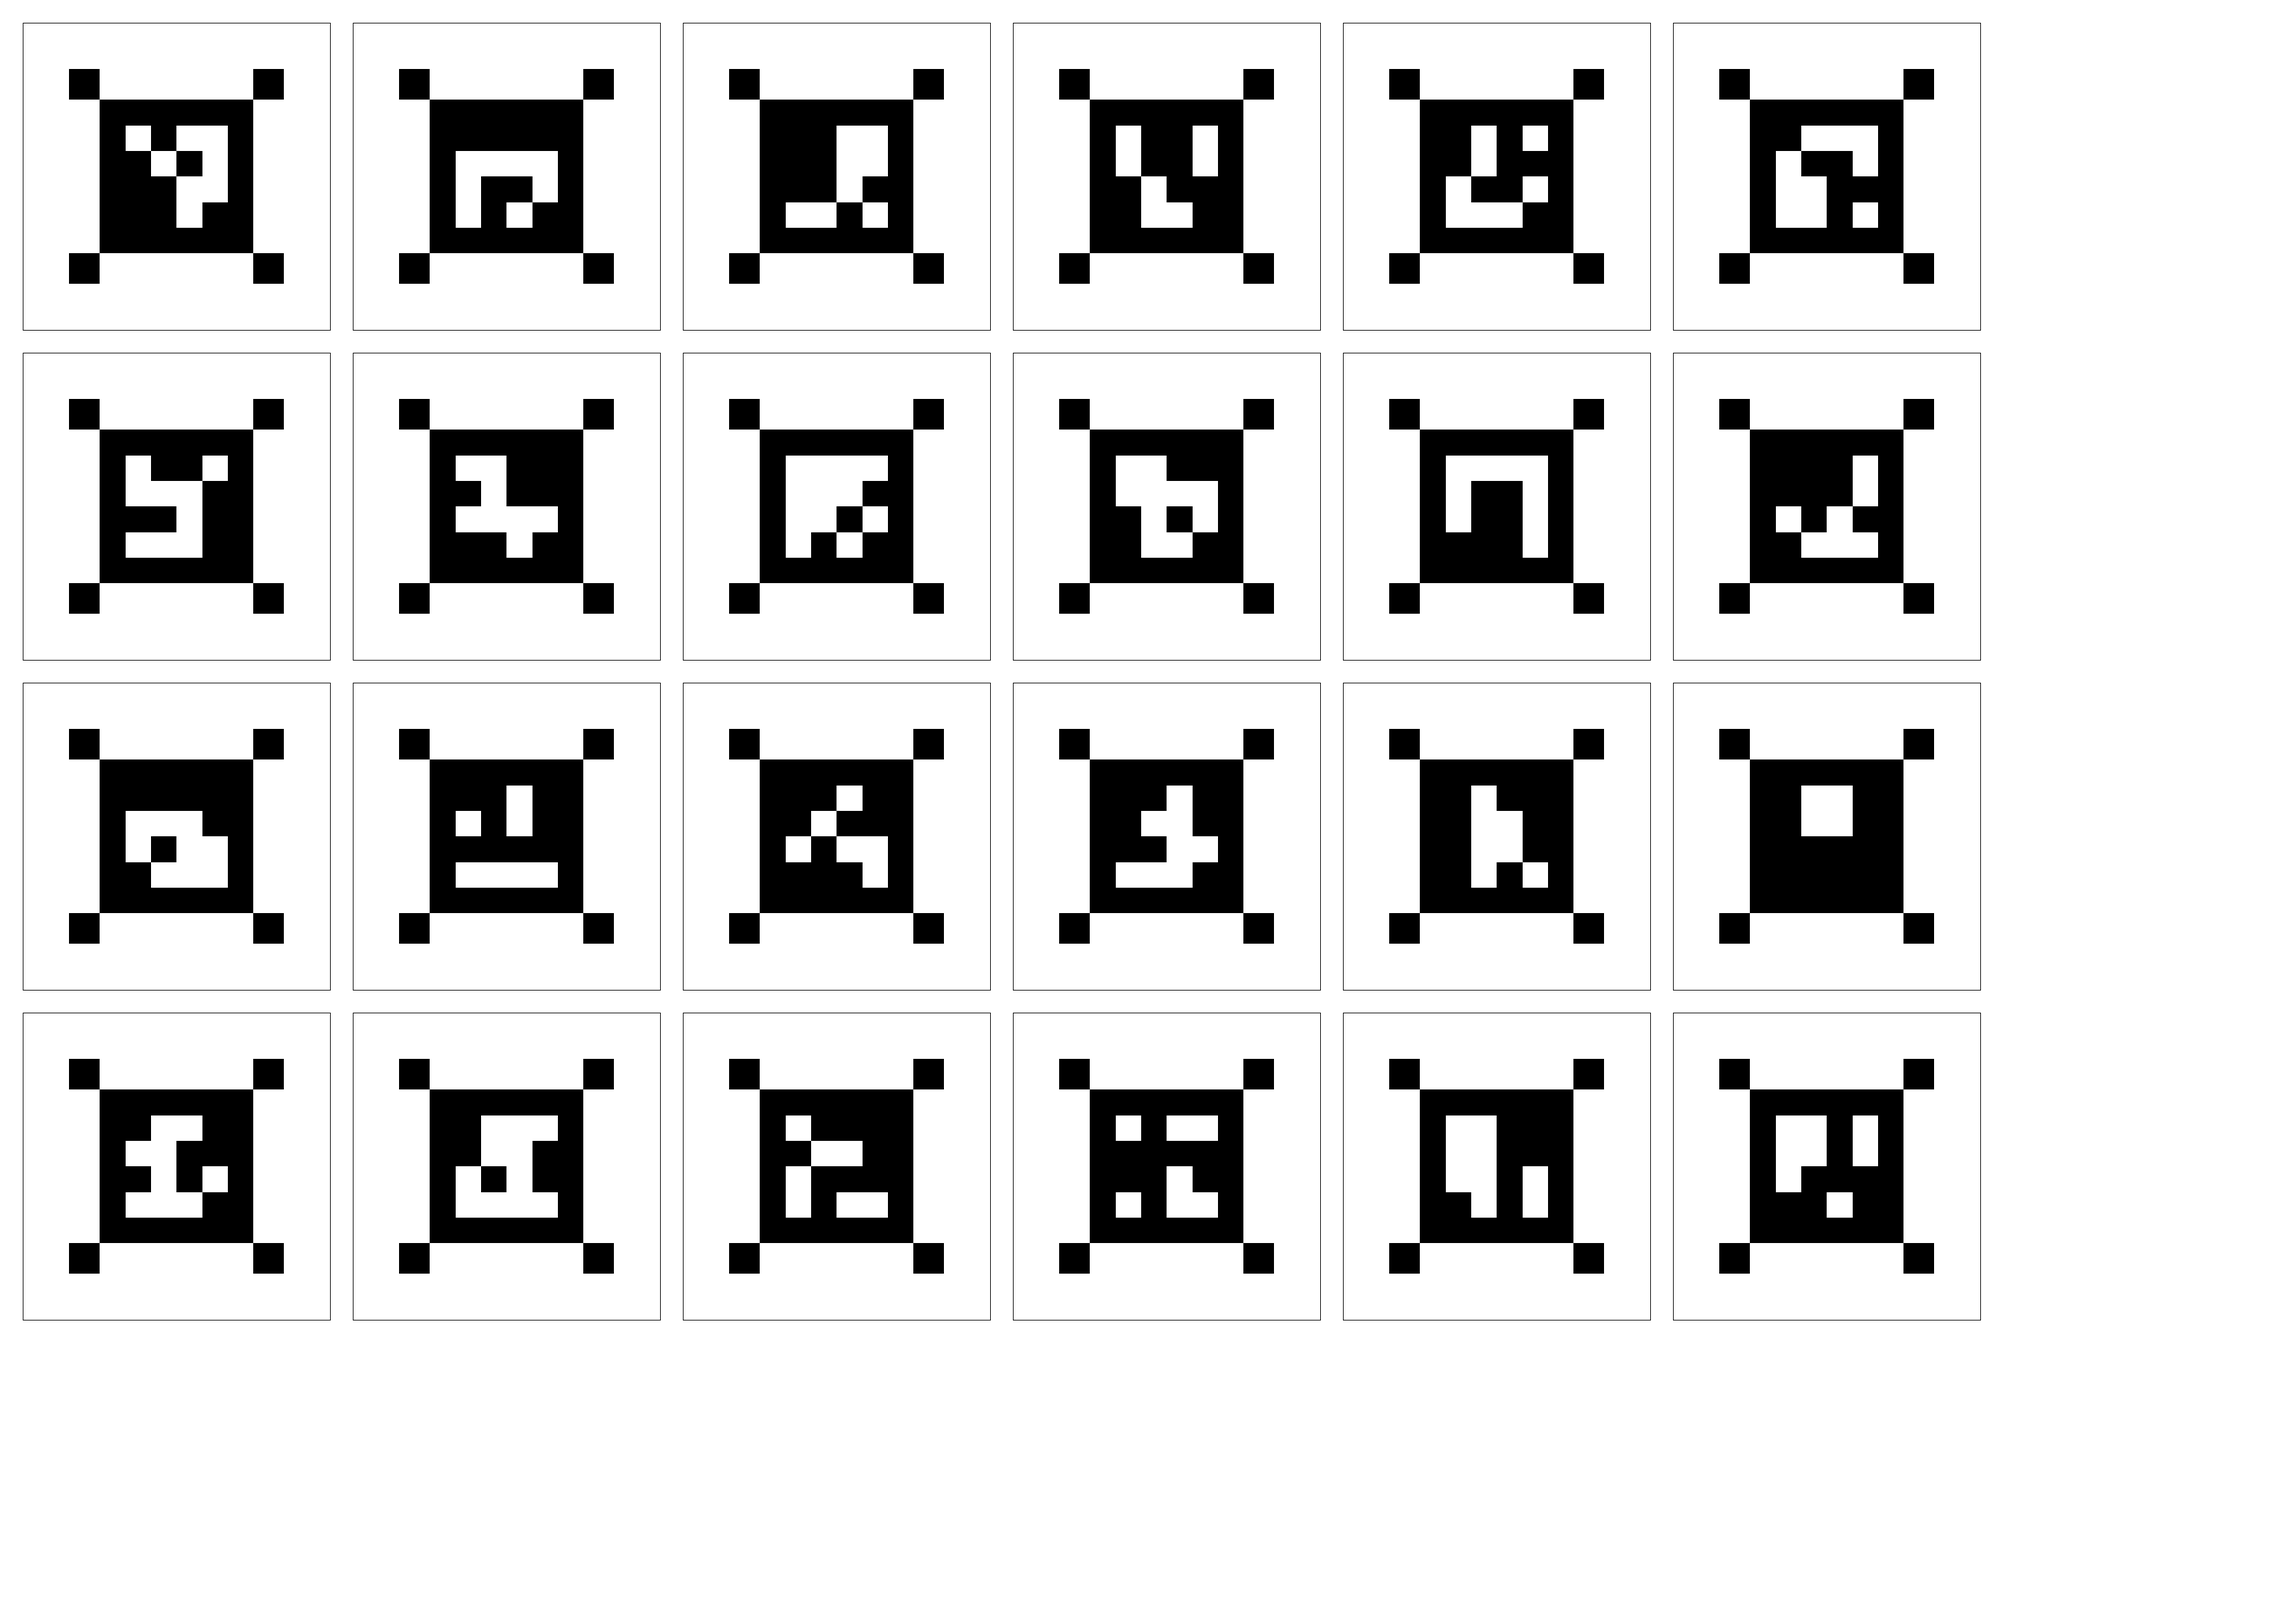
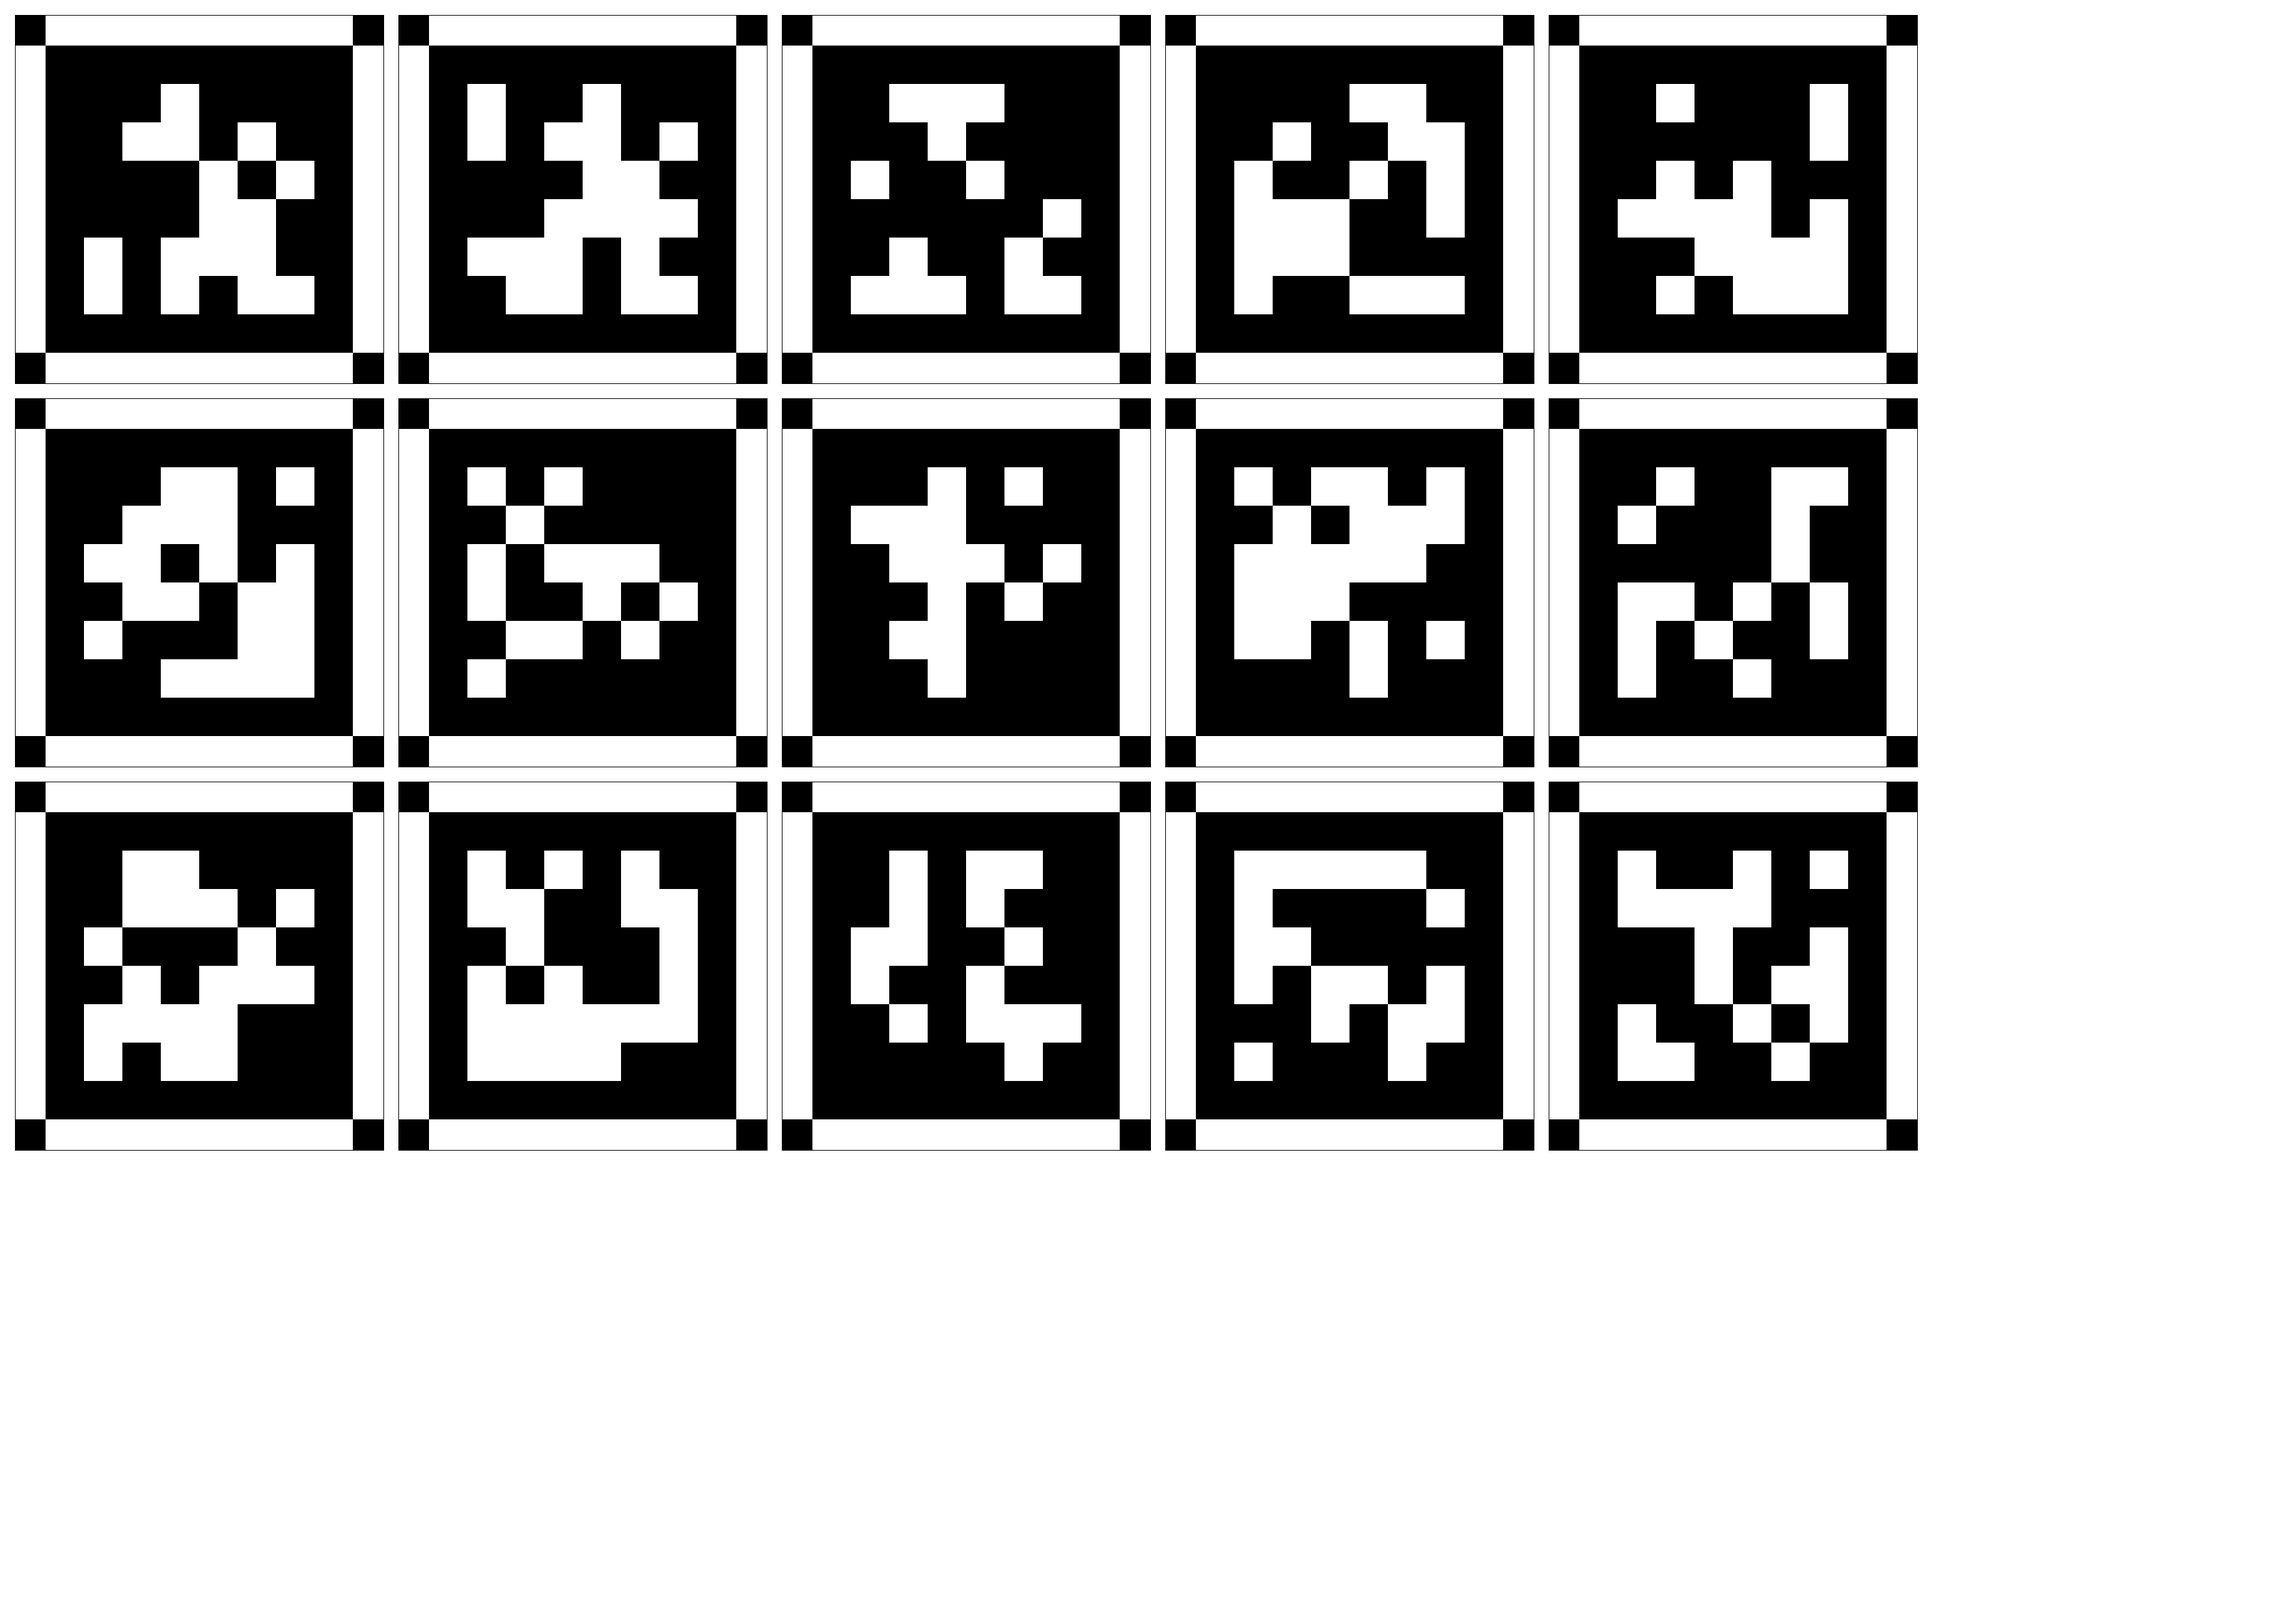
Add marker generator

diff --git a/marker_sheet_generator.py b/marker_sheet_generator.py
@@ -2,16 +2,23 @@ import cv2
 import cv2.aruco as aruco
 import numpy as np
 
+# @TODO: use argparse
+N_ROW = 3
+N_COL = 5
+ID_START = 0
+OUTPUT_IMAGE_NAME = "aruco1.png"
+
 
 PAPER_SIZE_HORISONTAL = 297  # [mm]
 PAPER_SIZE_VERTICAL = 210  # [mm]
 
-MARKER_SIZE = 20  # [mm]
-RECT_SIZE = 2 * MARKER_SIZE
-PATTERN_MARGIN = 3
-CORNER_RECT_SIZE_RATE = 0.2
+MARKER_SIZE = 40  # [mm]
+RECT_SIZE = int(1.2 * MARKER_SIZE)
+PATTERN_MARGIN = 2
+CORNER_RECT_SIZE_RATE = 0.1
 
-ARUCO_DICTIONARY = aruco.getPredefinedDictionary(aruco.DICT_4X4_50)
+# ARUCO_DICTIONARY = aruco.getPredefinedDictionary(cv2.aruco.DICT_6X6_1000)
+ARUCO_DICTIONARY = aruco.getPredefinedDictionary(cv2.aruco.DICT_APRILTAG_36h11)
 
 
 def convert_mm_to_pixel(value_mm, dpi=300):
@@ -81,13 +88,14 @@ def draw_aruco_pattern(canvas, aruco_image, marker_start_pos_x, marker_start_pos
     return canvas
 
 
-
-def draw_aruco(pattern_margin, canvas, n_markers_per_row=2, n_markers_per_col=4):
+def draw_aruco(pattern_margin, canvas, n_markers_per_row=2, n_markers_per_col=4, id_start=0):
     """Setup aruco info"""
 
     aruco_size = convert_mm_to_pixel(MARKER_SIZE)
     corner_rect_size = int(aruco_size * CORNER_RECT_SIZE_RATE)
-    aruco_image_list = [aruco.drawMarker(ARUCO_DICTIONARY, id, aruco_size) for id in range(n_markers_per_row * n_markers_per_col)]
+    aruco_image_list = [
+        aruco.drawMarker(ARUCO_DICTIONARY, id, aruco_size) for id in range(id_start, id_start + n_markers_per_row * n_markers_per_col)
+    ]
     rect_size = convert_mm_to_pixel(RECT_SIZE)
 
     """ Setup paper info
@@ -115,35 +123,9 @@ def draw_aruco(pattern_margin, canvas, n_markers_per_row=2, n_markers_per_col=4)
     return canvas
 
 
-"""
-    # TODO: reduce papersize definition line
-    stripe_image = canvas.copy()
-    paper_size_h = convert_mm_to_pixel(PAPER_SIZE_HORISONTAL)
-    paper_size_v = convert_mm_to_pixel(PAPER_SIZE_VERTICAL)
-    paper_size_half_h = paper_size_h // 2
-    paper_size_half_v = paper_size_v // 2
-
-    border_area_size_h = convert_mm_to_pixel(BORDER_AREA_SIZE_HORISONTAL)
-    border_area_size_v = convert_mm_to_pixel(BORDER_AREA_SIZE_VERTICAL)
-    border_area_size_half_h = border_area_size_h // 2
-    border_area_size_half_v = border_area_size_v // 2
-
-    n_stripe = border_area_size_h // border_bold
-    border_start_pos_h = paper_size_half_h - border_area_size_half_h
-    border_start_pos_v = paper_size_half_v - border_area_size_half_v
-    border_end_pos_v = paper_size_half_v + border_area_size_half_v
-
-    for i in range(n_stripe):
-        color_stripe = 0 if i % 2 == 0 else 255
-        current_stripe_start_pos_h = i * border_bold + border_start_pos_h
-        current_stripe_end_pos_h = (i + 1) * border_bold + border_start_pos_h
-        stripe_image[border_start_pos_v:border_end_pos_v, current_stripe_start_pos_h:current_stripe_end_pos_h] = color_stripe
-    return stripe_image
-"""
-
 if __name__ == "__main__":
     """Generate canvas"""
     canvas = generate_canvas_image()
-    aruco_image = draw_aruco(convert_mm_to_pixel(PATTERN_MARGIN), canvas, n_markers_per_row=4, n_markers_per_col=6)
-    cv2.imwrite("aruco.png", aruco_image)
+    aruco_image = draw_aruco(convert_mm_to_pixel(PATTERN_MARGIN), canvas, n_markers_per_row=N_ROW, n_markers_per_col=N_COL, id_start=ID_START)
+    cv2.imwrite(OUTPUT_IMAGE_NAME, aruco_image)
     cv2.waitKey(10)
